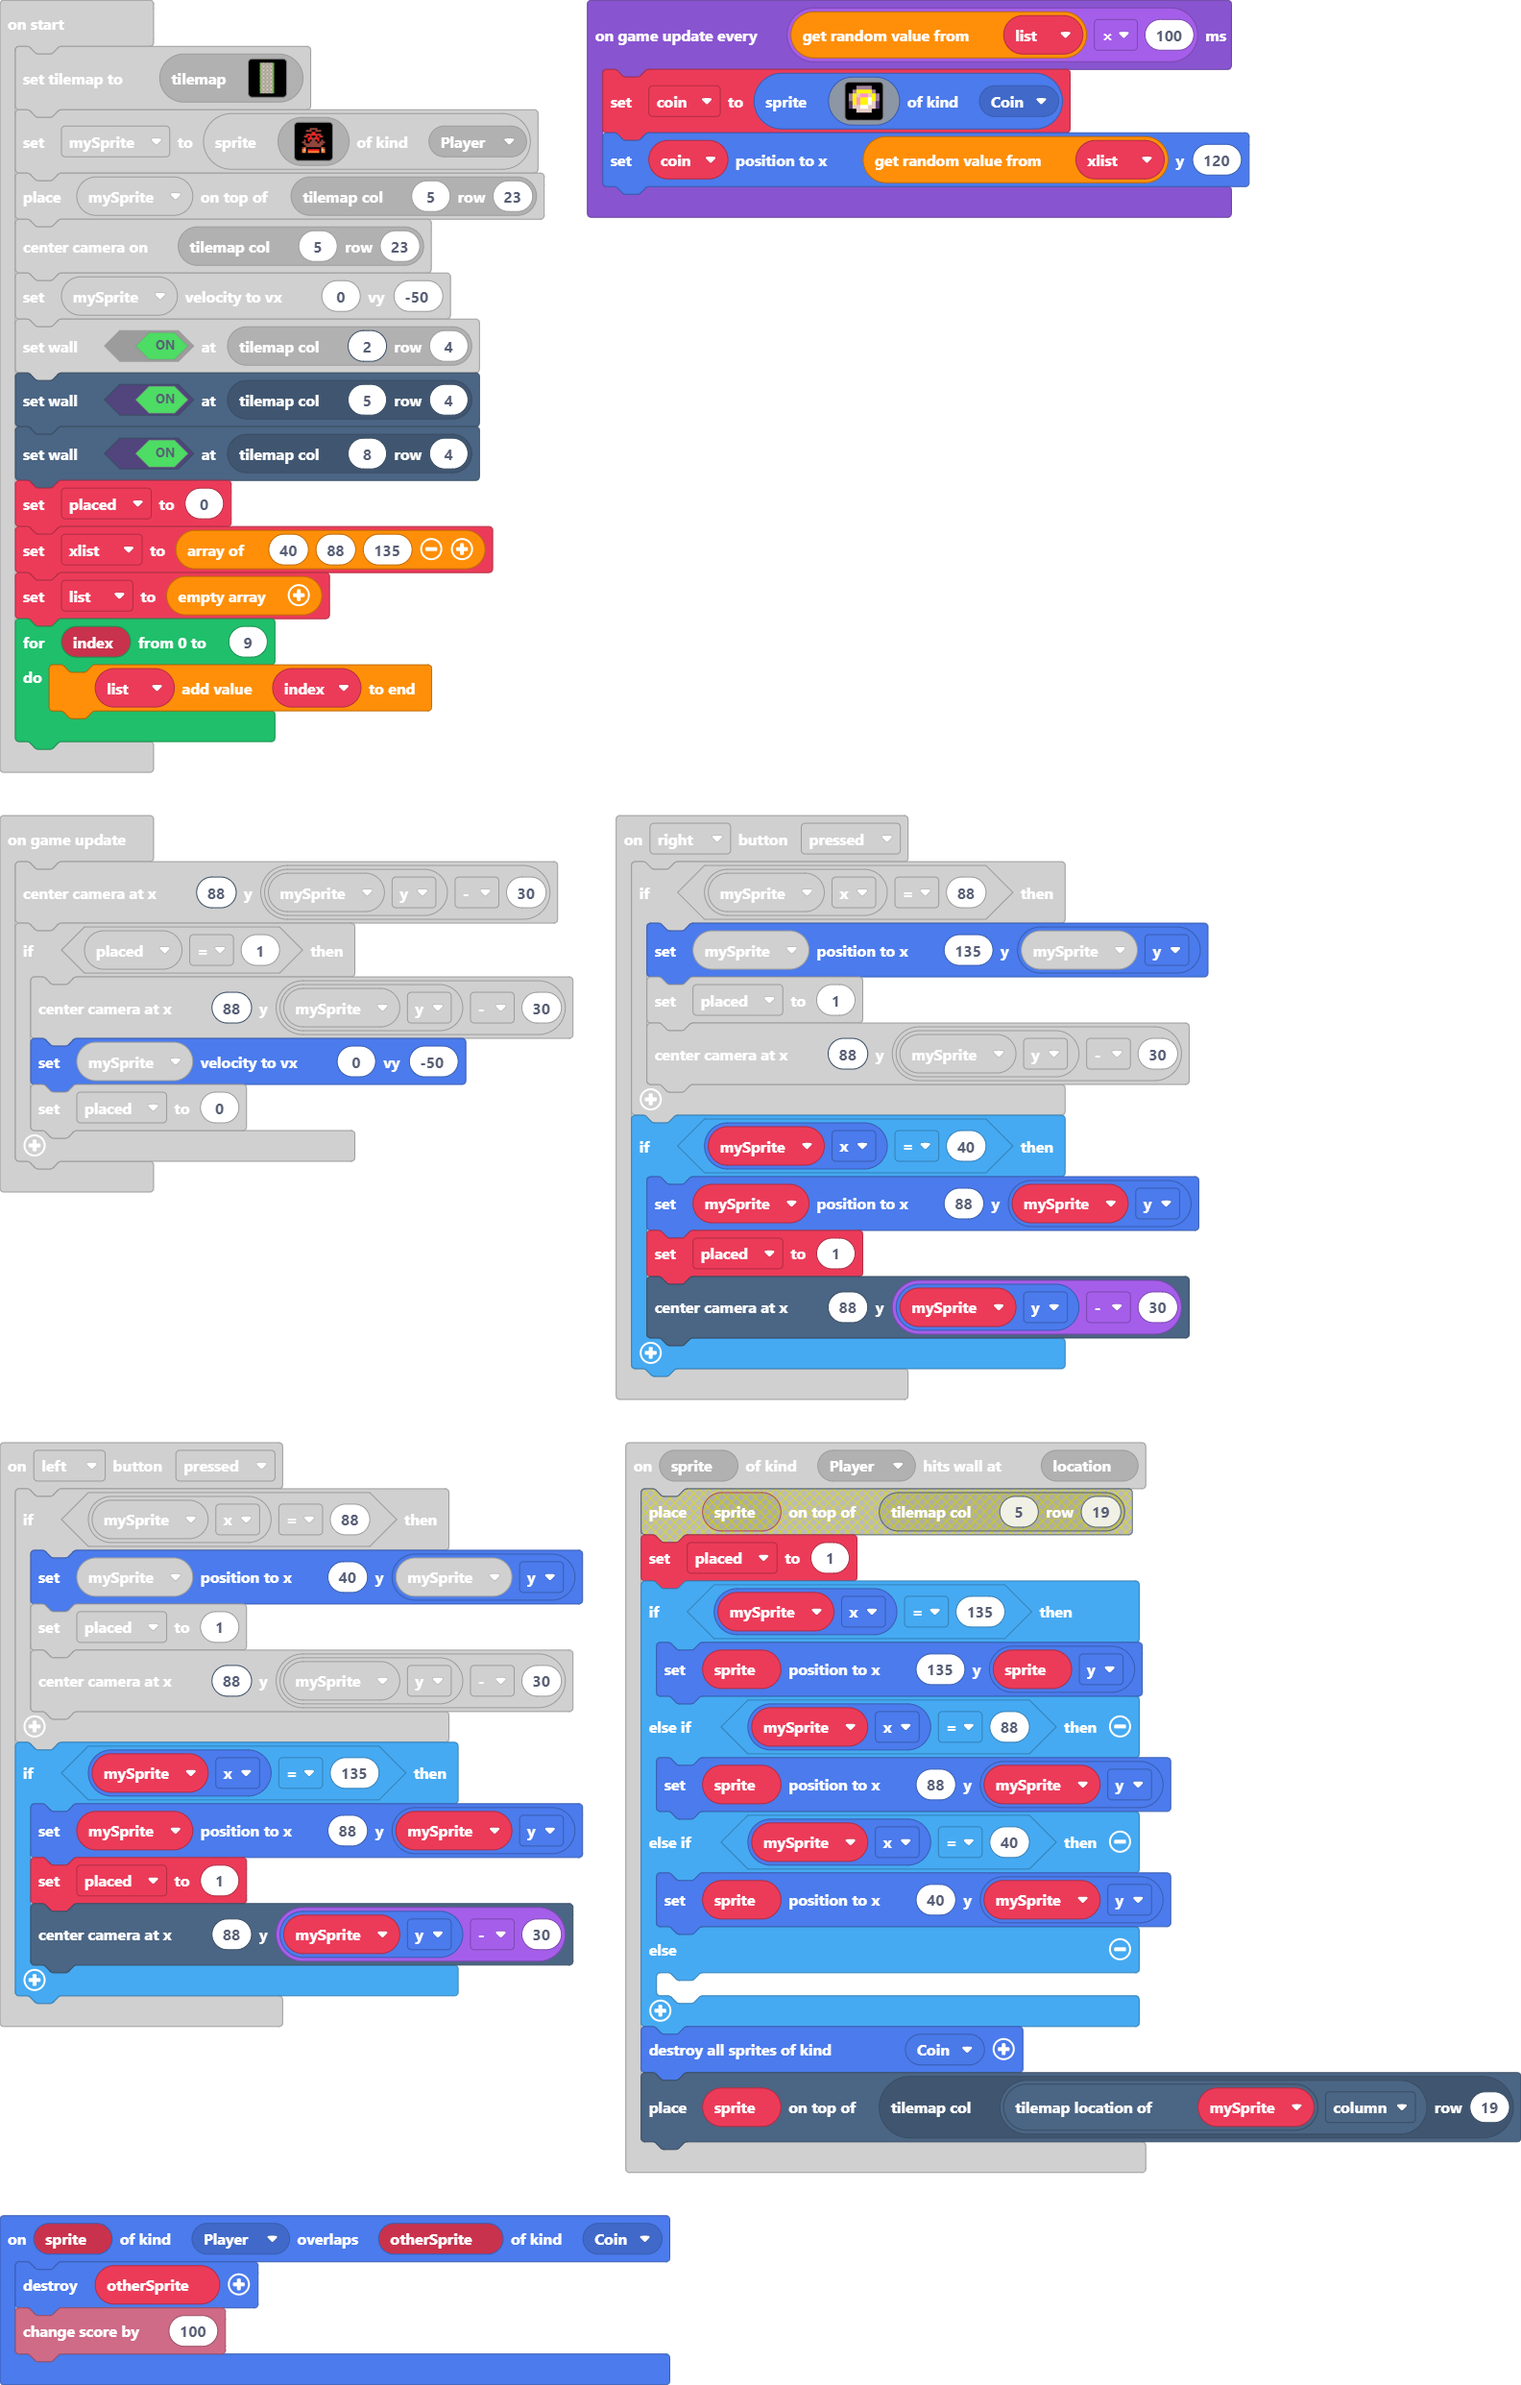
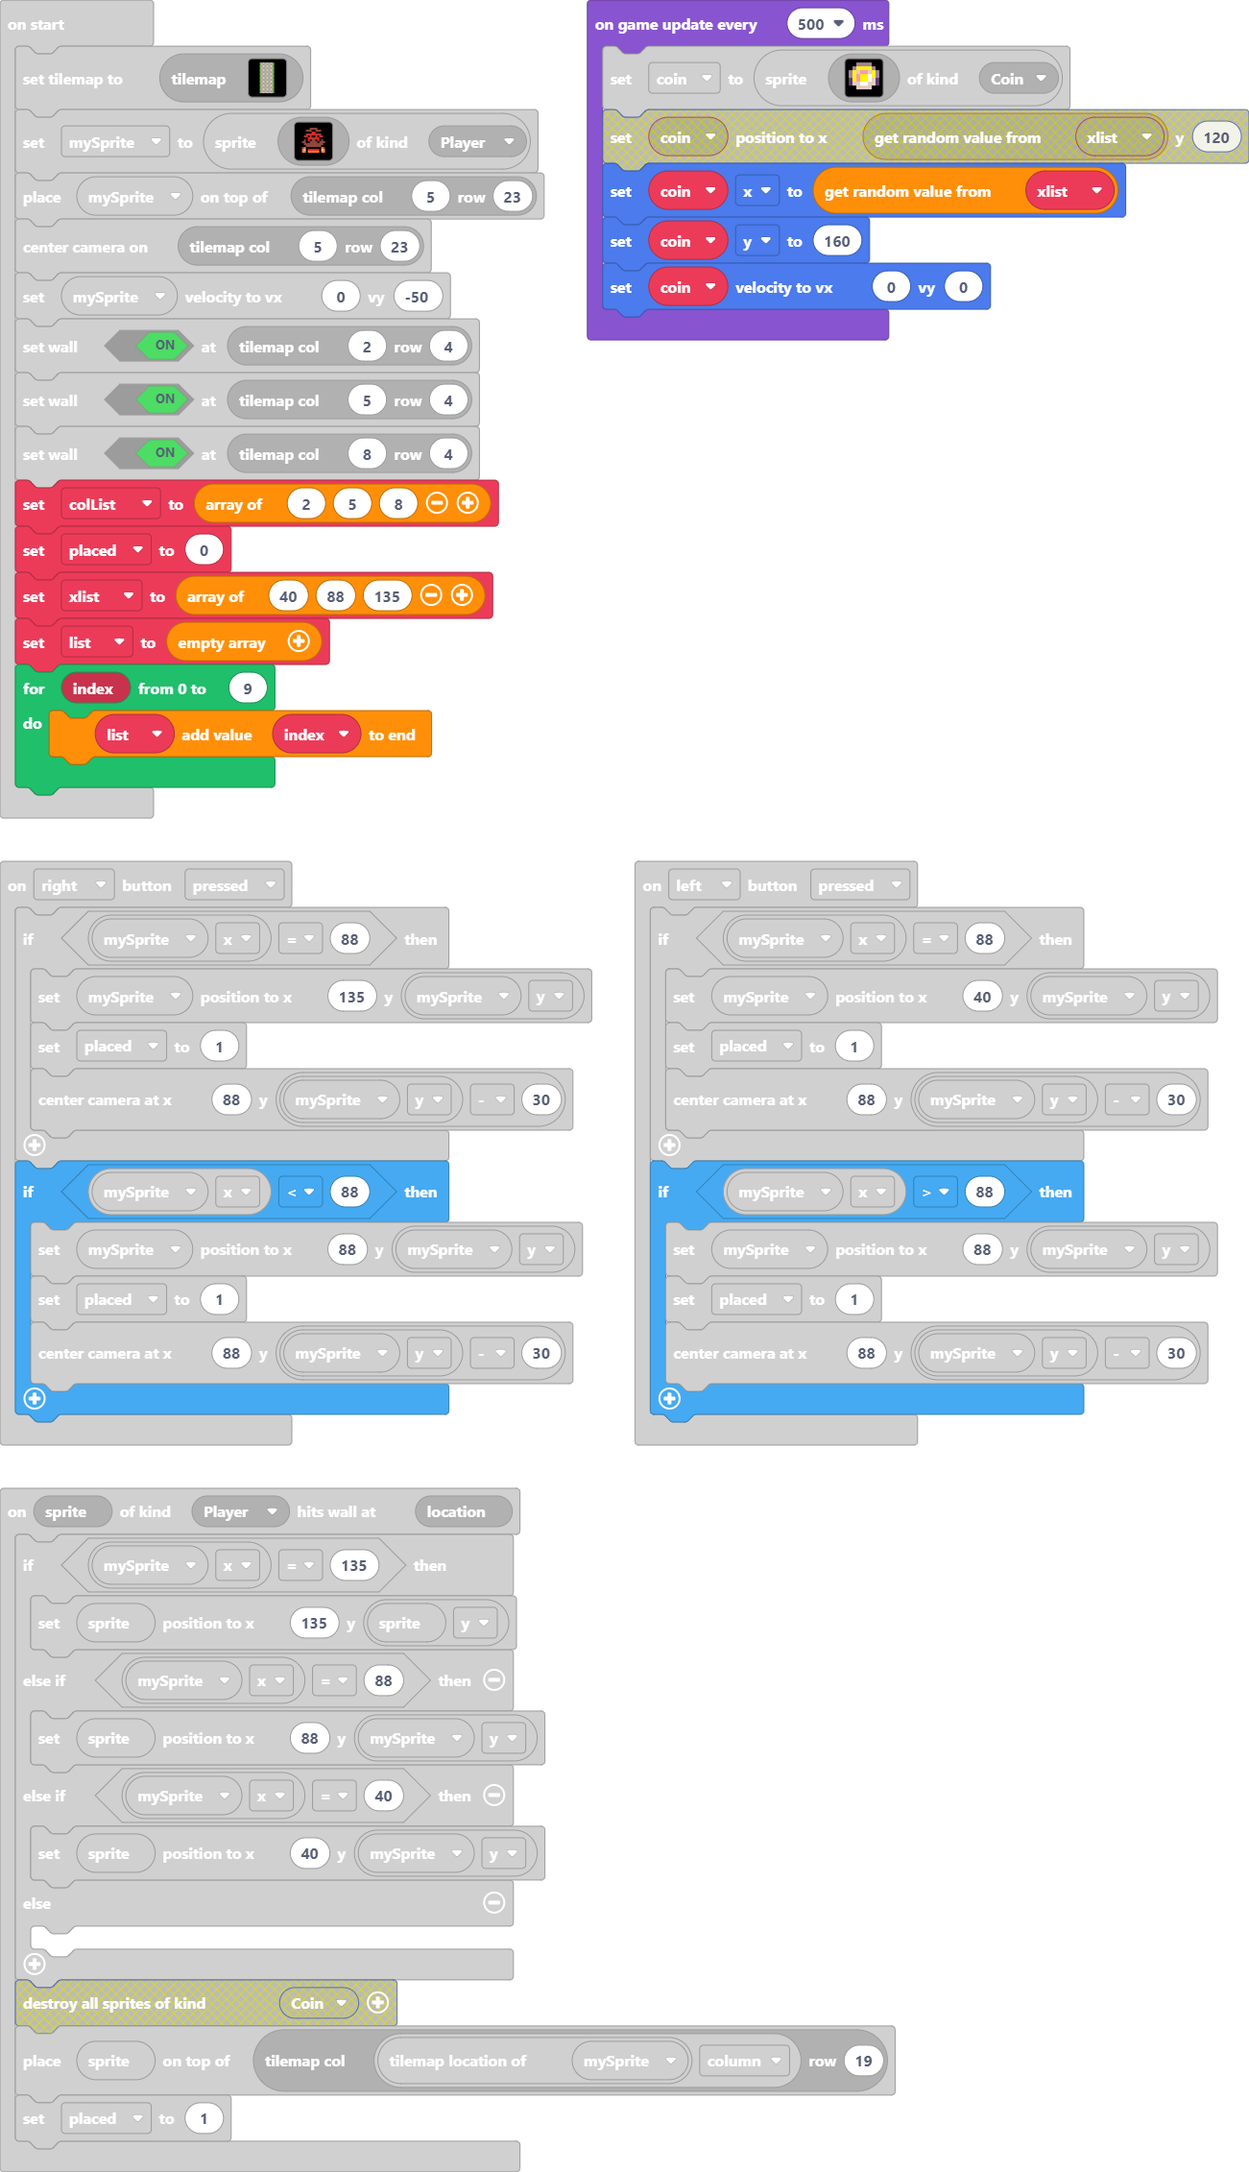
commit5

diff --git a/main.ts b/main.ts
@@ -11,7 +11,6 @@ scene.onHitWall(SpriteKind.Player, function (sprite, location) {
     } else {
     	
     }
-    sprites.destroyAllSpritesOfKind(SpriteKind.Coin)
     tiles.placeOnTile(sprite, tiles.getTileLocation(mySprite.tilemapLocation().column, 19))
     placed = 1
 })
@@ -25,7 +24,7 @@ controller.left.onEvent(ControllerButtonEvent.Pressed, function () {
         placed = 1
         scene.centerCameraAt(88, mySprite.y - 30)
     }
-    if (mySprite.x == 135) {
+    if (mySprite.x > 88) {
         mySprite.setPosition(88, mySprite.y)
         placed = 1
         scene.centerCameraAt(88, mySprite.y - 30)
@@ -37,7 +36,7 @@ controller.right.onEvent(ControllerButtonEvent.Pressed, function () {
         placed = 1
         scene.centerCameraAt(88, mySprite.y - 30)
     }
-    if (mySprite.x == 40) {
+    if (mySprite.x < 88) {
         mySprite.setPosition(88, mySprite.y)
         placed = 1
         scene.centerCameraAt(88, mySprite.y - 30)
@@ -54,6 +53,7 @@ mySprite.setVelocity(0, -50)
 tiles.setWallAt(tiles.getTileLocation(2, 4), true)
 tiles.setWallAt(tiles.getTileLocation(5, 4), true)
 tiles.setWallAt(tiles.getTileLocation(8, 4), true)
+let colList = [2, 5, 8]
 placed = 0
 let xlist = [40, 88, 135]
 let list: number[] = []
@@ -68,7 +68,9 @@ game.onUpdate(function () {
         placed = 0
     }
 })
-game.onUpdateInterval(list._pickRandom() * 100, function () {
+game.onUpdateInterval(500, function () {
     coin = sprites.create(assets.image`Coin`, SpriteKind.Coin)
-    coin.setPosition(xlist._pickRandom(), 120)
+    coin.x = xlist._pickRandom()
+    coin.y = 160
+    coin.setVelocity(0, 0)
 })
